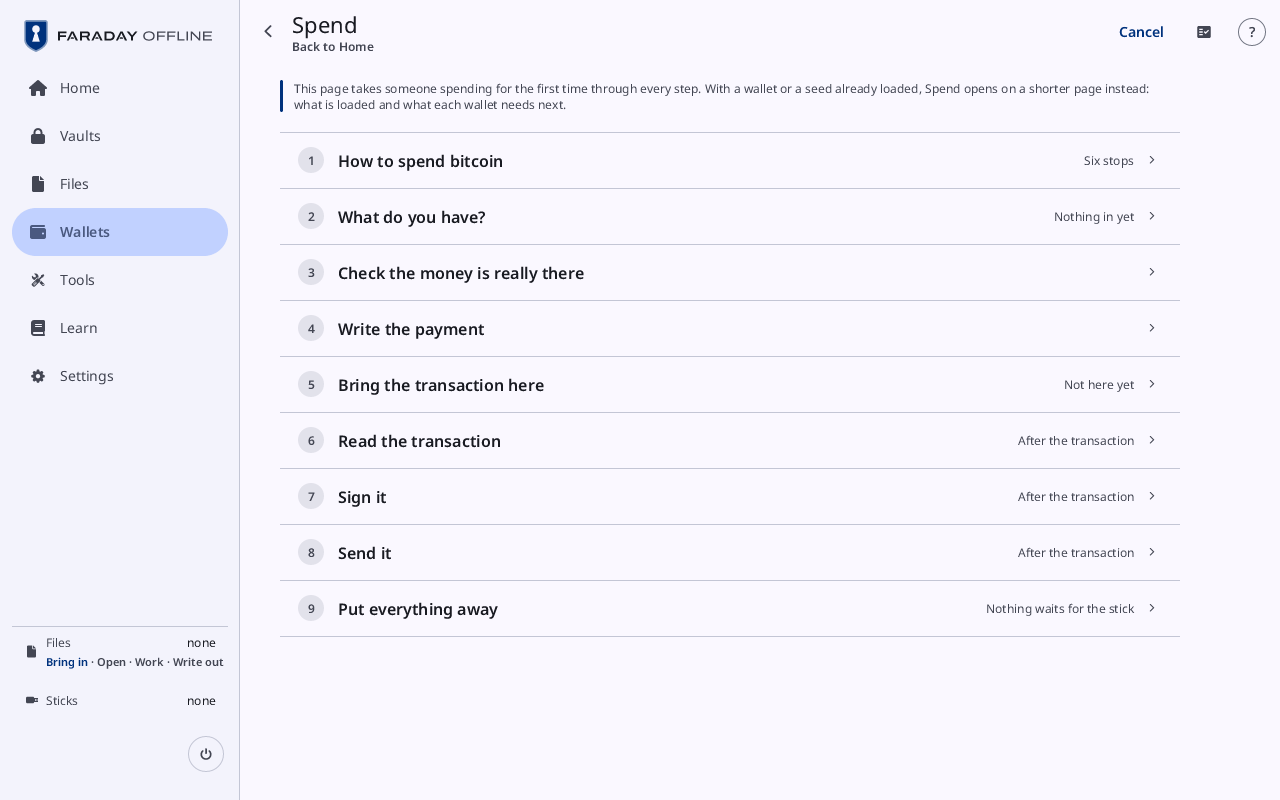
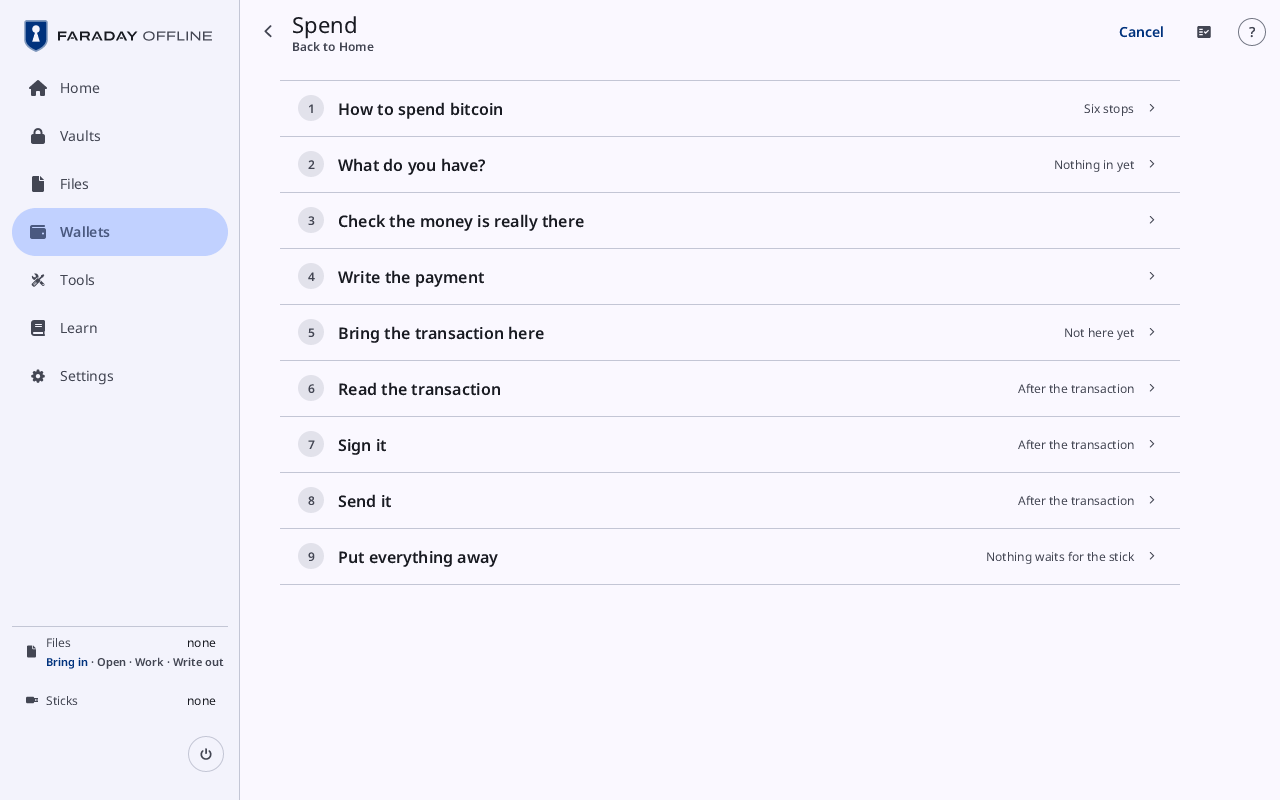
Spend's first page opens on the step list with no paragraph above it. Bring the transaction here, Put everything away and Who signs open on their controls, and Read the transaction on one label line; what their paragraphs said is under More about this. The guide's pictures of Spend's map, Bring and 
Material: m3.material.io/components/buttons (text button, More about this)
Reviewed: strings.no-explanation
Reviewed: strings.plain
Reviewed: strings.medium
Reviewed: design.left-out
Reviewed: speed.late-flow-timed
Reviewed: speed.shown-secret-held
Reviewed: structure.areas-private
Reviewed: guide.pictures
Reviewed: tree.image-metadata
Reviewed: repo.tests-user-facing
Reviewed: crypto.kept-values
Reviewed: crypto.costs-said
Reviewed: keys.secret-files
Reviewed: keys.child-vault-only
Claude-Session: https://claude.ai/code/session_01Nu65eQKQsVQdduVh6i1b4q

diff --git a/faraday/faraday-core/src/spend_backup/text.rs b/faraday/faraday-core/src/spend_backup/text.rs
@@ -177,30 +177,13 @@ pub fn lead(app: &View, id: CardId) -> String {
         }
         CardId::Page(page::CHECK) => EN.spend_backup_load_this_same,
         CardId::Page(page::WRITE) => EN.spend_backup_this_part_happens,
-        CardId::Page(page::BRING) => {
-            return fill(
-                EN.spend_backup_two_ways_scanning,
-                &[app.medium.a(), app.medium.a(), app.medium.noun()],
-            );
-        }
-        CardId::Page(_) => {
-            return fill(
-                EN.spend_backup_lock_faraday,
-                &[
-                    app.medium.noun(),
-                    app.medium.a(),
-                    app.medium.noun(),
-                    app.medium.noun(),
-                ],
-            );
-        }
+        // Bring and Put everything away say their how in More about this.
+        CardId::Page(_) => return String::new(),
         CardId::Later(_) => EN.spend_backup_this_opens_once,
+        // A label for the lines, over Learn's Verifying; Who signs has no note.
         CardId::Step(step::TRANSACTION) => EN.spend_backup_read_the_summary,
+        CardId::Step(step::SIGNERS) => return String::new(),
         CardId::Step(step::TXID) => EN.spend_backup_lead_write_down_id,
-        CardId::Step(step::SIGNERS) if signers_missing(app) => EN.spend_backup_lead_every_key,
-        CardId::Step(step::SIGNERS) if app.spend_backup.state.route == Some(Route::Paper) => {
-            EN.spend_backup_lead_one_seed
-        }
         CardId::Step(step::SIGN) => EN.spend_backup_signing_adds,
         CardId::Step(step::FINISH) => {
             return fill(EN.spend_backup_the_finished, &[app.medium.a()]);
@@ -289,7 +272,25 @@ pub fn more(app: &View, id: CardId) -> Vec<String> {
             EN.spend_backup_the_first_confirmation,
         ],
         CardId::Page(page::AWAY) => {
-            return vec![fill(EN.spend_backup_when_faraday, &[m.noun()])];
+            return vec![
+                fill(
+                    EN.spend_backup_lock_faraday,
+                    &[m.noun(), m.a(), m.noun(), m.noun()],
+                ),
+                fill(EN.spend_backup_when_faraday, &[m.noun()]),
+            ];
+        }
+        CardId::Page(page::BRING) => {
+            return vec![fill(
+                EN.spend_backup_two_ways_scanning,
+                &[m.a(), m.a(), m.noun()],
+            )];
+        }
+        CardId::Step(step::SIGNERS) if signers_missing(app) => {
+            return vec![EN.spend_backup_lead_every_key.to_string()];
+        }
+        CardId::Step(step::SIGNERS) if app.spend_backup.state.route == Some(Route::Paper) => {
+            return vec![EN.spend_backup_lead_one_seed.to_string()];
         }
         _ => &[],
     };

diff --git a/faraday/faraday-strings/src/en.rs b/faraday/faraday-strings/src/en.rs
@@ -2166,8 +2166,6 @@ strings! {
     spend_backup_spend_from_n: "Spend from {}",
     /// Text in `draw`.
     spend_backup_wallets: "Wallets",
-    /// Text in `draw`.
-    spend_backup_this_page_takes: "This page takes someone spending for the first time through every step. With a wallet or a seed already loaded, Spend opens on a shorter page instead: what is loaded and what each wallet needs next.",
     /// Text in `loaded_compact`.
     spend_backup_walk_through: "Walk through from the start",
     /// Text in `loaded_compact`.
@@ -2546,9 +2544,10 @@ strings! {
     /// Text in `lead`. `{}`: `app.medium.noun()`, `app.medium.a()`, `app.medium.noun()`, `app.medium.noun()`.
     spend_backup_lock_faraday: "Lock Faraday. The vault is sealed again with the keys inside it, and none is left in memory. If a file you still need waits for the {}, plug {} in and the {} visit writes it. Then switch off, take the {} out, and put it back with the papers.",
     /// Text in `lead`.
-    spend_backup_this_opens_once: "This opens once the transaction is here.",
     /// Text in `lead`.
-    spend_backup_read_the_summary: "Read what leaves, what comes back and the fee before signing.",
+    spend_backup_read_the_summary: "What leaves, what comes back and the fee",
+    /// Text in `lead`.
+    spend_backup_this_opens_once: "This opens once the transaction is here.",
     /// Text in `lead`.
     spend_backup_lead_write_down_id: "Write down the first and last few characters of this id. Sparrow shows the same id for the transaction it wrote; after sending, the id is how you follow it.",
     /// Text in `lead`.

diff --git a/faraday/faraday-core/tests/all/spend_backup.rs b/faraday/faraday-core/tests/all/spend_backup.rs
@@ -288,7 +288,7 @@ fn read_the_transaction_leads_to_verifying_in_learn() {
     assert_eq!(app.spend().unwrap().open, Some(step::TRANSACTION));
     let text = drawn(&mut app);
     assert!(
-        text.contains("Read what leaves, what comes back and the fee before signing."),
+        text.contains("What leaves, what comes back and the fee"),
         "{text}"
     );
     assert!(!text.contains("Declining costs nothing"), "{text}");

diff --git a/faraday/faraday-core/src/spend_backup/screen.rs b/faraday/faraday-core/src/spend_backup/screen.rs
@@ -105,7 +105,7 @@ pub(crate) fn draw(app: &View, ui: &mut Ui, x0: f32, cw: f32, h: f32) {
         guided: true,
         switch: false,
         wrap_closed: false,
-        note: from.is_none().then_some(EN.spend_backup_this_page_takes),
+        note: None,
         chip: None,
         chip_tap: None,
         moves: crate::ui::Moves::No,

diff --git a/docs/SPEND-FROM-BACKUP.md b/docs/SPEND-FROM-BACKUP.md
@@ -355,7 +355,8 @@ guide gives them; the signed copy goes back with **Scan QR** and
 
 ### 7 · Bring the transaction here
 
-**Lead:** Two ways. Scanning is the simpler: nothing has to lock.
+No lead: the page opens on its controls. **More about this** holds the two
+ways in.
 
 - **Scan it.** Press Scan and hold Sparrow's QR up to this computer's
   camera. An animation is read as it loops; the count shows the parts.
@@ -371,10 +372,8 @@ The page closes when a spend is loaded.)*
 
 ### 8 · Read the transaction
 
-**Lead:** Read what leaves, what comes back and the fee before signing.
-Under it, a way to Learn's **Verifying**, which says why: change is the
-rest coming back, signing cannot be taken back, and declining costs
-nothing.
+**Lead:** What leaves, what comes back and the fee. Under it, a way to
+Learn's **Verifying**, which says why they are read before signing.
 
 Then the transaction id: write down its first and last few characters.
 Sparrow shows the same id for the transaction it wrote; after sending, the
@@ -384,7 +383,7 @@ id is how you follow it.
 
 ### 9 · Add the seeds that can sign (Paper route, multisig)
 
-**Lead:** One seed at a time: put its words in, add
+No lead; **More about this** says: one seed at a time: put its words in, add
 it, and the count goes up. Order does not matter and the same seed twice
 does no harm. Each list is checked against the wallet's own keys, so one
 belonging to a different wallet is refused. A seed kept as a QR code beside
@@ -434,7 +433,8 @@ last step, this is the part you can safely hand over.
 
 ### 12 · Put everything away
 
-**Lead:** Lock Faraday. The vault is sealed again with the keys inside
+No lead: the page holds Lock, Power off and Start over. **More about this**
+says: Lock Faraday. The vault is sealed again with the keys inside
 it, and none is left in memory. If the Outbox holds anything you still need (the finished
 transaction, or a vault that changed), plug a stick in and the visit
 writes it. Then switch off, take the stick out, and put it back with the

diff --git a/docs/guide/walk/spend-from-a-backup.md b/docs/guide/walk/spend-from-a-backup.md
@@ -32,8 +32,7 @@ Wallets too, and the signatures are the same.
 ## 1. Open it
 
 On **Home**, press [**Spend from a backup, step by step**](../screens/spend-tab.md). The page is
-**Spend**, with a note at the top: this page takes someone spending
-for the first time through every step. The link at the top left goes
+**Spend**. The link at the top left goes
 back to **Home**.
 
 With a wallet or a seed already loaded, Spend opens on a shorter page
@@ -43,7 +42,7 @@ below.
 
 ## 2. How to spend bitcoin
 
-![Spend with its note at the top and nine cards, from How to spend bitcoin to Put everything away](../pictures/spend-from-a-backup-map.png)
+![Spend with nine cards, from How to spend bitcoin to Put everything away](../pictures/spend-from-a-backup-map.png)
 
 The page lists its cards closed, each with a word on where it stands:
 **How to spend bitcoin**, **What do you have?**, **Check the money is
@@ -151,7 +150,7 @@ Signing* and *Show QR*. Press **I have the PSBT**.
 
 ## 6. Bring the transaction here
 
-![Bring the transaction here with Scan, and Copy it in from a stick grey until a stick is in, Scan outlined](../pictures/spend-from-a-backup-bring.png)
+![Bring the transaction here with Scan, Copy it in from a stick grey until a stick is in, and More about this, Scan outlined](../pictures/spend-from-a-backup-bring.png)
 
 | By QR code | On a stick |
 |---|---|
@@ -185,7 +184,7 @@ showed. If it differs, what was sent is not what was signed here.
 
 ## 8. Put everything away
 
-![Put everything away listing scanned-1-signed.psbt and scanned-1-final.txn, with Lock, Power off and Start over, Lock outlined](../pictures/spend-from-a-backup-away.png)
+![Put everything away listing scanned-1-signed.psbt and scanned-1-final.txn, with Lock, Power off and Start over and More about this, Lock outlined](../pictures/spend-from-a-backup-away.png)
 
 The card lists the files waiting for the stick, then **Lock**, **Power
 off** and **Start over**.

diff --git a/docs/DESIGN.md b/docs/DESIGN.md
@@ -720,7 +720,7 @@ is `docs/WALLETS.md` and the Spend tab `docs/SPEND-FROM-BACKUP.md`.
 | `WalletsStart` | The Wallets tab's first page: the wallets loaded, the keys without a wallet, and every way in by what the person has. | Page |
 | `Wallets` | The wallets as a list and the chosen wallet's card: its name and shape, a `tr()` tree's key path line under the shape (the danger line, in the error colour, for a key not of the wallet; F132), the backup line, the signatures possible here, **At a glance** (§4.16), the first receive address and the card's actions (`docs/WALLETS.md`). | Page |
 | `Spend` | Signing a transaction: the review (what it sends, to whom, the fee, change, the txid, warnings), the signers, **Sign with** (§4.4), and the signed PSBT and finished transaction. | Step flow |
-| `SpendBackup` | The Spend tab: spending from a backup, step by step (`docs/SPEND-FROM-BACKUP.md`). | Step flow |
+| `SpendBackup` | The Spend tab: spending from a backup, step by step (`docs/SPEND-FROM-BACKUP.md`). The first page opens on the step list, and Bring the transaction here, Who signs and Put everything away open on their controls, with no paragraph or note, and Read the transaction on one label line; what a paragraph said is under More about this. | Step flow |
 | `Files` | The Inbox and the Outbox: a row per file with its kind, size and ⋮, and what each file can do (Sign, Decode, Nonce check, Load the wallet, Unlock, Import into the vault). While a stick is open, a checkbox on each row for writing, and the stick pane: what is on the stick, ticked to bring in; beside the lists from expanded windows up, below that as primary tabs **In Faraday · On {stick}** (F235). | Page |
 | `Entry` | Add a key: a seed typed or scanned (§4.3). | Page |
 | `Backup` | Backing up a wallet: the plan, the board (§4.17), each copy made and checked. | Step flow |

diff --git a/docs/guide/screens/spend-tab.md b/docs/guide/screens/spend-tab.md
@@ -38,7 +38,6 @@ same spend as on Wallets.
 
 | Control | What it does |
 |---|---|
-| the note | at the top: "This page takes someone spending for the first time through every step. …" |
 | the way back | at the top left: **Home** or **Wallets**, where it was opened from; once a card is closed, named after the card before the one open |
 | a card | its title, how it stands, and **Change** |
 | **More about this** | under a card's line: the rest of what the card is for |
